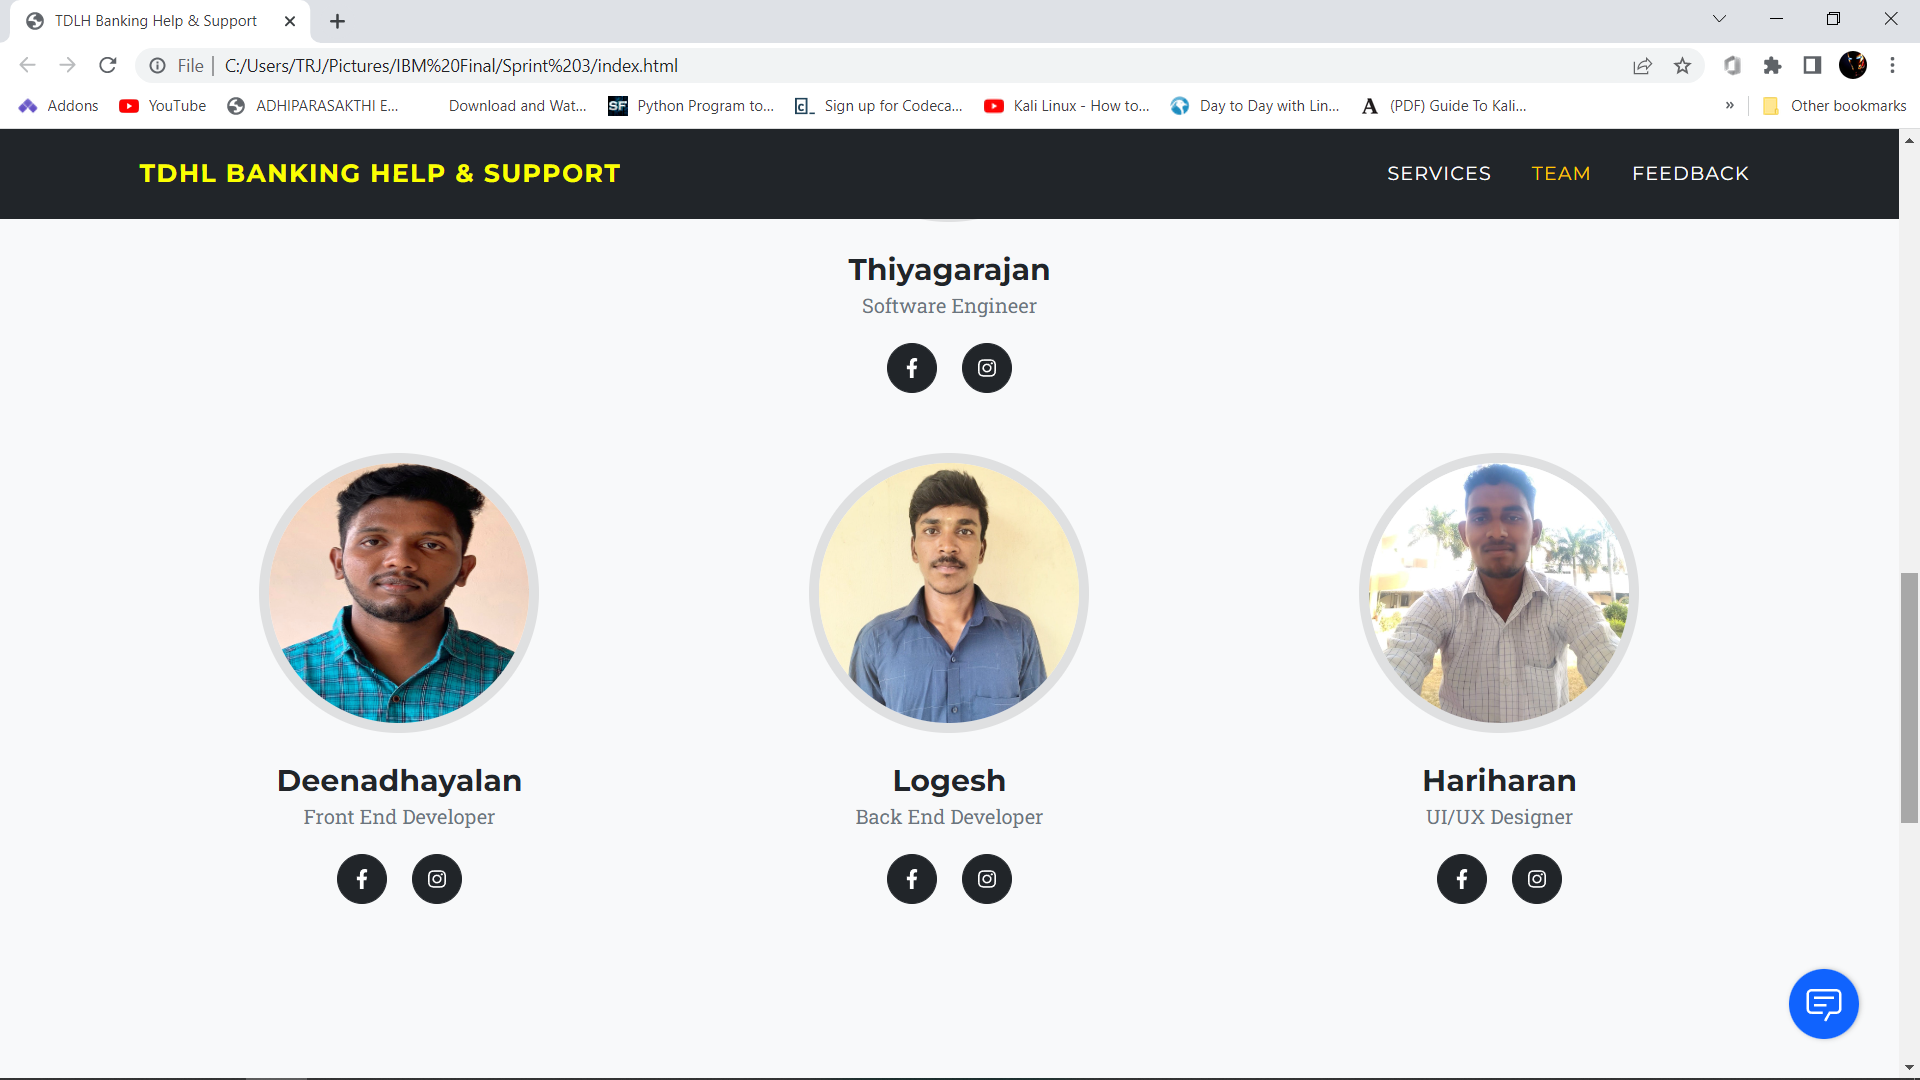
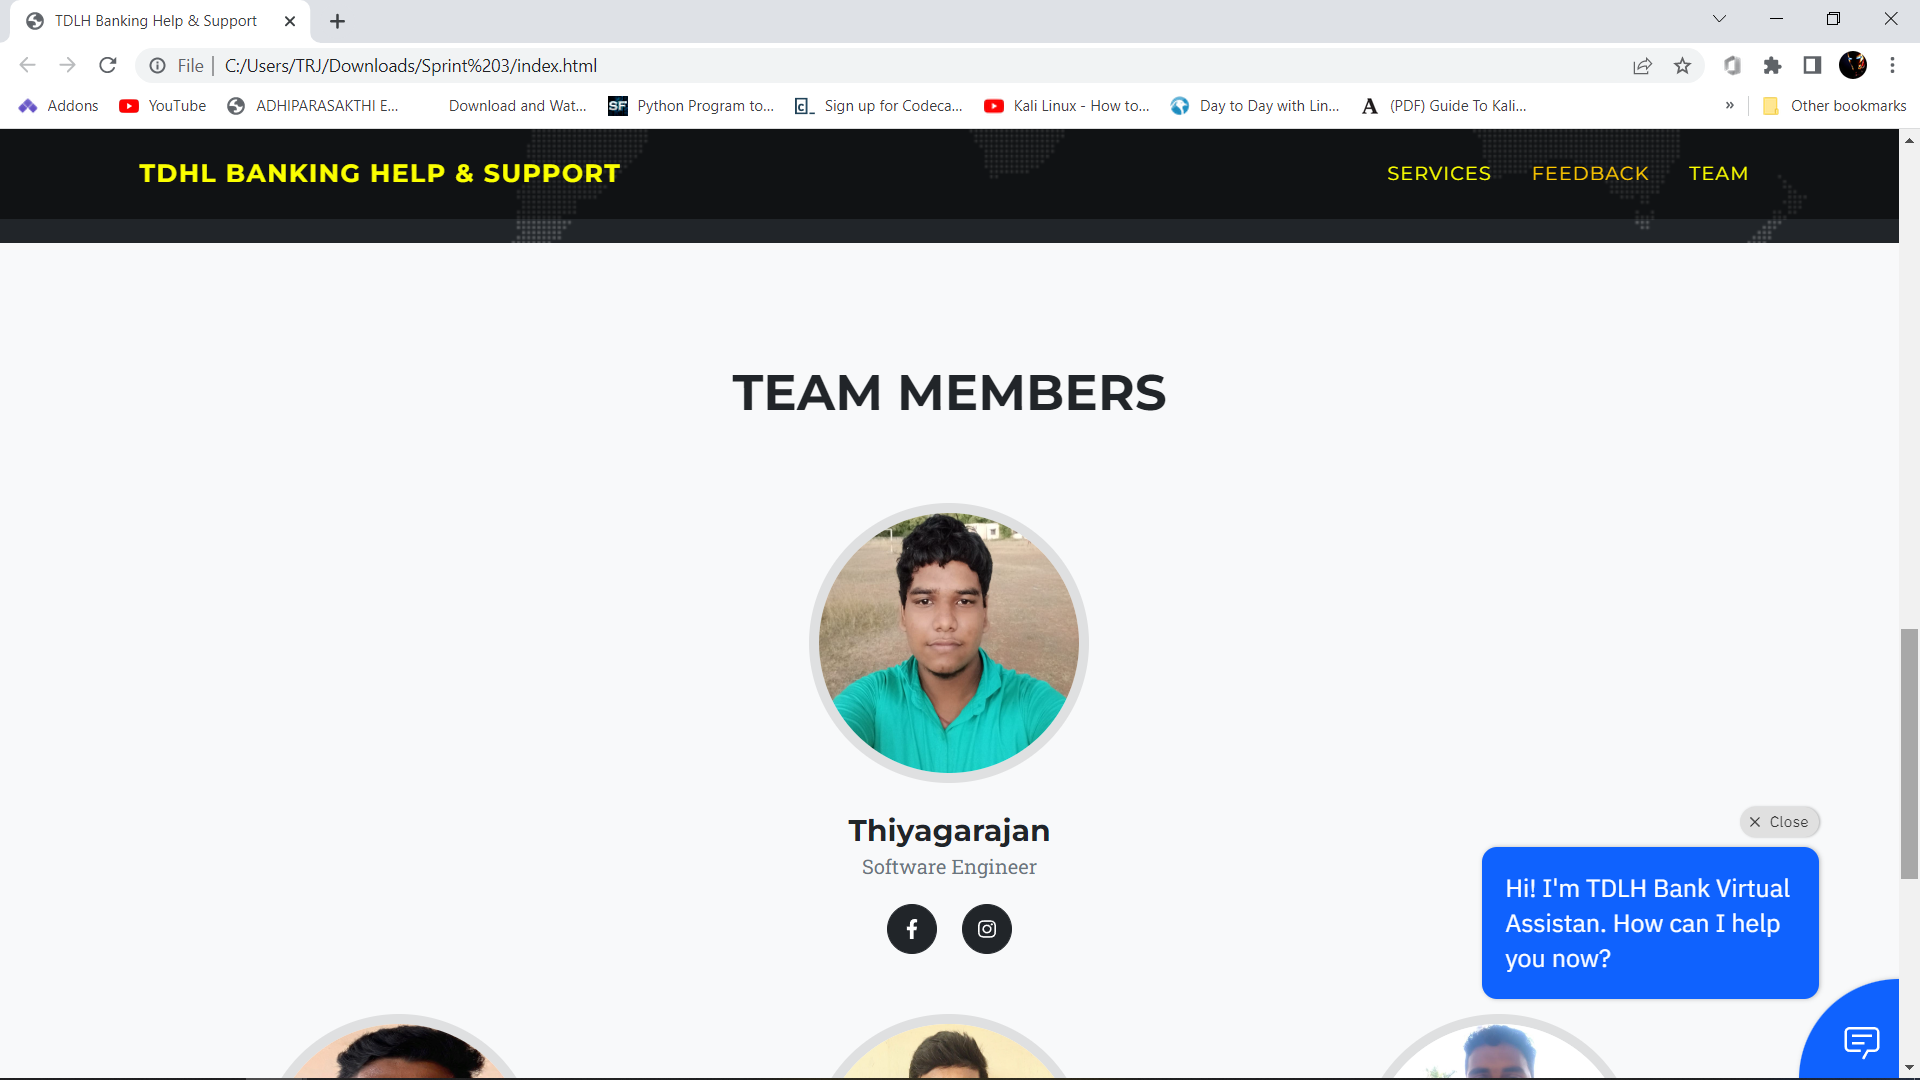
sprint 3 update

diff --git a/Project Development Phase/Sprint 3/index.html b/Project Development Phase/Sprint 3/index.html
@@ -50,8 +50,8 @@
                 <div class="collapse navbar-collapse" id="navbarResponsive">
                     <ul class="navbar-nav text-uppercase ms-auto py-4 py-lg-0">
                         <li class="nav-item"><a class="nav-link" href="#services">Services</a></li>
-                        <li class="nav-item"><a class="nav-link" href="#team">Team</a></li>
                         <li class="nav-item"><a class="nav-link" href="#contact">Feedback</a></li>
+                        <li class="nav-item"><a class="nav-link" href="#team">Team</a></li>     
                     </ul>
                 </div>
             </div>
@@ -107,69 +107,6 @@
                 </div>
             </div>
         </section>
-       
-        
-
-
-        <!-- start-->
-
-         <!-- Team-->
-         <section class="page-section bg-light" id="team">
-            <div class="container">
-                <div class="text-center">
-                    <h2 class="section-heading text-uppercase">Team Members</h2>
-                    <h3 class="section-subheading text-muted">   </h3>
-                </div>
-                <div class="row">
-                    <center>
-                    <div class="col-lg-4">
-                        <div class="team-member">
-                            <img class="mx-auto rounded-circle" src="assets/img/team/1.jpg" alt="..." />
-                            <h4>Thiyagarajan</h4>
-                            <p class="text-muted">Software Engineer</p>
-                            <!--<a class="btn btn-dark btn-social mx-2" href="#!" aria-label="Parveen Anand Twitter Profile"><i class="fab fa-twitter"></i></a>-->
-                            <a class="btn btn-dark btn-social mx-2" href="https://www.facebook.com/thiyagarajan.v.737" target="_blank" aria-label="Parveen Anand Facebook Profile"><i class="fab fa-facebook-f"></i></a>
-                            <a class="btn btn-dark btn-social mx-2" href="https://www.instagram.com/trj2002/" target="_blank" aria-label="Parveen Anand LinkedIn Profile"><i class="fa-brands fa-instagram"></i></a>
-                        </div>
-                    </div>
-                </center>
-                </div>
-
-                <div class="row">
-                    <div class="col-lg-4">
-                        <div class="team-member">
-                            <img class="mx-auto rounded-circle" src="assets/img/team/2.jpeg" alt="..." />
-                            <h4>Deenadhayalan</h4>
-                            <p class="text-muted">Front End Developer</p>
-                            <!--<a class="btn btn-dark btn-social mx-2" href="#!" aria-label="Parveen Anand Twitter Profile"><i class="fab fa-twitter"></i></a>-->
-                            <a class="btn btn-dark btn-social mx-2" href="https://www.facebook.com/deenadhayalan.deenadhayalan.73113528" target="_blank" aria-label="Parveen Anand Facebook Profile"><i class="fab fa-facebook-f"></i></a>
-                            <a class="btn btn-dark btn-social mx-2" href="https://www.instagram.com/_deendeepi_12_12/" target="_blank" aria-label="Parveen Anand LinkedIn Profile"><i class="fa-brands fa-instagram"></i></a>
-                        </div>
-                    </div>
-
-                    <div class="col-lg-4">
-                        <div class="team-member">
-                            <img class="mx-auto rounded-circle" src="assets/img/team/3.jpeg" alt="..." />
-                            <h4>Logesh</h4>
-                            <p class="text-muted">Back End Developer</p>
-                            <!--<a class="btn btn-dark btn-social mx-2" href="#!" aria-label="Diana Petersen Twitter Profile"><i class="fab fa-twitter"></i></a>-->
-                            <a class="btn btn-dark btn-social mx-2" href="https://www.facebook.com/people/Logesh/100044705059555/" target="_blank" aria-label="Diana Petersen Facebook Profile"><i class="fab fa-facebook-f"></i></a>
-                            <a class="btn btn-dark btn-social mx-2" href="https://www.instagram.com/logesh_3094/" target="_blank" aria-label="Diana Petersen LinkedIn Profile"><i class="fa-brands fa-instagram"></i></a>
-                        </div>
-                    </div>
-                    <div class="col-lg-4">
-                        <div class="team-member">
-                            <img class="mx-auto rounded-circle" src="assets/img/team/4.jpeg" alt="..." />
-                            <h4>Hariharan</h4>
-                            <p class="text-muted">UI/UX Designer</p>
-                            <!--<a class="btn btn-dark btn-social mx-2" href="#!" aria-label="Larry Parker Twitter Profile"><i class="fab fa-twitter"></i></a>-->
-                            <a class="btn btn-dark btn-social mx-2" href="https://www.facebook.com/profile.php?id=100040856963459" target="_blank" aria-label="Larry Parker Facebook Profile"><i class="fab fa-facebook-f"></i></a>
-                            <a class="btn btn-dark btn-social mx-2" href="https://www.instagram.com/harikaran12344/" target="_blank" aria-label="Larry Parker LinkedIn Profile"><i class="fa-brands fa-instagram"></i></a>
-                        </div>
-                    </div>
-                </div>
-        </section>
-        <!--end-->
 
          <!-- Contact-->
          <section class="page-section" id="contact">
@@ -232,6 +169,62 @@
                 </form>
             </div>
         </section>
+                 <!-- Team-->
+                 <section class="page-section bg-light" id="team">
+                    <div class="container">
+                        <div class="text-center">
+                            <h2 class="section-heading text-uppercase">Team Members</h2>
+                            <h3 class="section-subheading text-muted">   </h3>
+                        </div>
+                        <div class="row">
+                            <center>
+                            <div class="col-lg-4">
+                                <div class="team-member">
+                                    <img class="mx-auto rounded-circle" src="assets/img/team/1.jpg" alt="..." />
+                                    <h4>Thiyagarajan</h4>
+                                    <p class="text-muted">Software Engineer</p>
+                                    <!--<a class="btn btn-dark btn-social mx-2" href="#!" aria-label="Parveen Anand Twitter Profile"><i class="fab fa-twitter"></i></a>-->
+                                    <a class="btn btn-dark btn-social mx-2" href="https://www.facebook.com/thiyagarajan.v.737" target="_blank" aria-label="Parveen Anand Facebook Profile"><i class="fab fa-facebook-f"></i></a>
+                                    <a class="btn btn-dark btn-social mx-2" href="https://www.instagram.com/trj2002/" target="_blank" aria-label="Parveen Anand LinkedIn Profile"><i class="fa-brands fa-instagram"></i></a>
+                                </div>
+                            </div>
+                        </center>
+                        </div>
+        
+                        <div class="row">
+                            <div class="col-lg-4">
+                                <div class="team-member">
+                                    <img class="mx-auto rounded-circle" src="assets/img/team/2.jpeg" alt="..." />
+                                    <h4>Deenadhayalan</h4>
+                                    <p class="text-muted">Front End Developer</p>
+                                    <!--<a class="btn btn-dark btn-social mx-2" href="#!" aria-label="Parveen Anand Twitter Profile"><i class="fab fa-twitter"></i></a>-->
+                                    <a class="btn btn-dark btn-social mx-2" href="https://www.facebook.com/deenadhayalan.deenadhayalan.73113528" target="_blank" aria-label="Parveen Anand Facebook Profile"><i class="fab fa-facebook-f"></i></a>
+                                    <a class="btn btn-dark btn-social mx-2" href="https://www.instagram.com/_deendeepi_12_12/" target="_blank" aria-label="Parveen Anand LinkedIn Profile"><i class="fa-brands fa-instagram"></i></a>
+                                </div>
+                            </div>
+        
+                            <div class="col-lg-4">
+                                <div class="team-member">
+                                    <img class="mx-auto rounded-circle" src="assets/img/team/3.jpeg" alt="..." />
+                                    <h4>Logesh</h4>
+                                    <p class="text-muted">Back End Developer</p>
+                                    <!--<a class="btn btn-dark btn-social mx-2" href="#!" aria-label="Diana Petersen Twitter Profile"><i class="fab fa-twitter"></i></a>-->
+                                    <a class="btn btn-dark btn-social mx-2" href="https://www.facebook.com/people/Logesh/100044705059555/" target="_blank" aria-label="Diana Petersen Facebook Profile"><i class="fab fa-facebook-f"></i></a>
+                                    <a class="btn btn-dark btn-social mx-2" href="https://www.instagram.com/logesh_3094/" target="_blank" aria-label="Diana Petersen LinkedIn Profile"><i class="fa-brands fa-instagram"></i></a>
+                                </div>
+                            </div>
+                            <div class="col-lg-4">
+                                <div class="team-member">
+                                    <img class="mx-auto rounded-circle" src="assets/img/team/4.jpeg" alt="..." />
+                                    <h4>Hariharan</h4>
+                                    <p class="text-muted">UI/UX Designer</p>
+                                    <!--<a class="btn btn-dark btn-social mx-2" href="#!" aria-label="Larry Parker Twitter Profile"><i class="fab fa-twitter"></i></a>-->
+                                    <a class="btn btn-dark btn-social mx-2" href="https://www.facebook.com/profile.php?id=100040856963459" target="_blank" aria-label="Larry Parker Facebook Profile"><i class="fab fa-facebook-f"></i></a>
+                                    <a class="btn btn-dark btn-social mx-2" href="https://www.instagram.com/harikaran12344/" target="_blank" aria-label="Larry Parker LinkedIn Profile"><i class="fa-brands fa-instagram"></i></a>
+                                </div>
+                            </div>
+                        </div>
+                </section>
         <!--    JS    -->
         <script>
             window.watsonAssistantChatOptions = {

diff --git a/Project Development Phase/Sprint 3/styles.css b/Project Development Phase/Sprint 3/styles.css
@@ -11339,9 +11339,9 @@ p {
 }
 
 #mainNav {
-  padding-top: 1rem;
-  padding-bottom: 1rem;
-  background-color: #212529;
+  padding-top: 0.5rem;
+  padding-bottom: 0.5rem;
+  background-color: #00000085;
 }
 #mainNav .navbar-toggler {
   padding: 0.75rem;
@@ -11363,7 +11363,7 @@ p {
 #mainNav .navbar-nav .nav-item .nav-link {
   font-family: "Montserrat", -apple-system, BlinkMacSystemFont, "Segoe UI", Roboto, "Helvetica Neue", Arial, sans-serif, "Apple Color Emoji", "Segoe UI Emoji", "Segoe UI Symbol", "Noto Color Emoji";
   font-size: 0.95rem;
-  color: #fff;
+  color: #fbff00;
   letter-spacing: 0.0625em;
 }
 #mainNav .navbar-nav .nav-item .nav-link.active, #mainNav .navbar-nav .nav-item .nav-link:hover {
@@ -11372,10 +11372,10 @@ p {
 
 @media (min-width: 992px) {
   #mainNav {
-    padding-top: 1.5rem;
-    padding-bottom: 1.5rem;
+    padding-top: 1rem;
+    padding-bottom: 1rem;
     border: none;
-    background-color: transparent;
+    background-color: #00000085; /*transparent*/
     transition: padding-top 0.3s ease-in-out, padding-bottom 0.3s ease-in-out;
   }
   #mainNav .navbar-brand {
@@ -11389,7 +11389,7 @@ p {
   #mainNav.navbar-shrink {
     padding-top: 1rem;
     padding-bottom: 1rem;
-    background-color: #212529;
+    background-color: #00000085;
   }
   #mainNav.navbar-shrink .navbar-brand {
     font-size: 1.25em;
